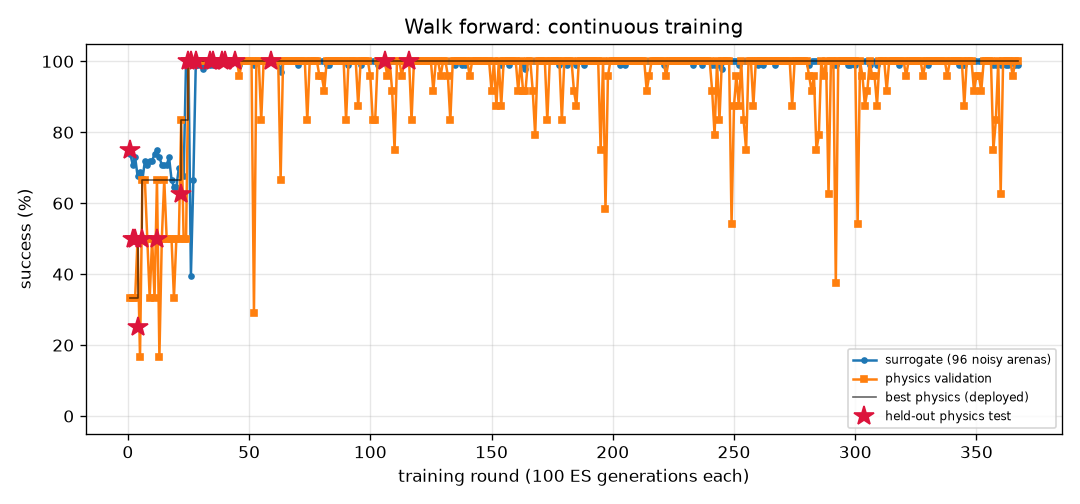
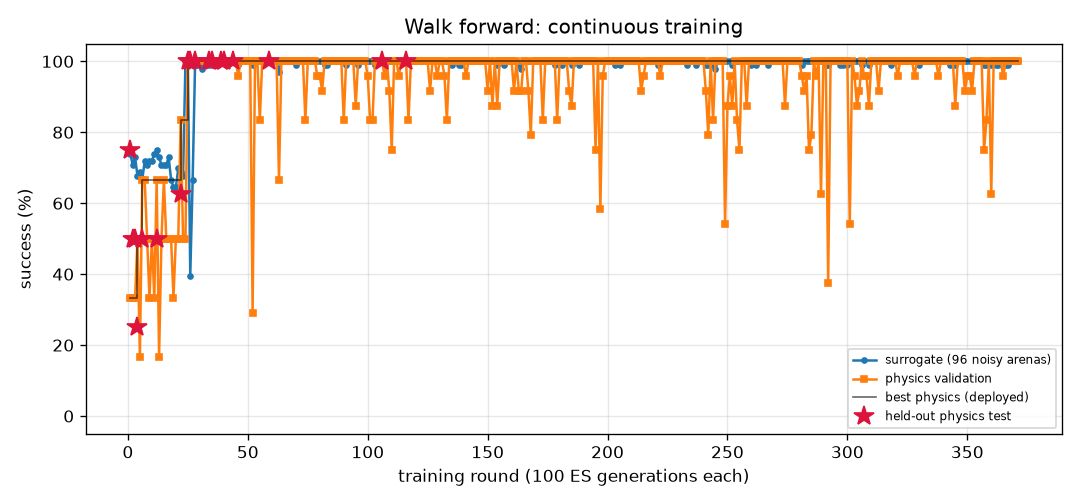
FlyLab: continuous training progress
- walk_forward: optimal, physics val 100% of 24, round 371
- turn: optimal, physics val 100% of 24, round 1013
- goto: optimal, physics val 100% of 24, round 287
- odor_seek: optimal, physics val 100% of 24, round 235
- odor_avoid: optimal, physics val 100% of 24, round 900
- light_seek: optimal, physics val 100% of 24, round 489
- light_avoid: optimal, physics val 100% of 24, round 628

diff --git a/projects/09_flylab/training/walk_forward/REPORT.md b/projects/09_flylab/training/walk_forward/REPORT.md
@@ -1,14 +1,14 @@
 # Walk forward (`walk_forward`) — training report
 
-*Auto-generated by `train_brains.py`, last updated 2026-11-11T21:56:49.*
+*Auto-generated by `train_brains.py`, last updated 2026-11-12T21:10:27.*
 
 ![curve](curve.png)
 
 | | |
 |---|---|
-| rounds | 367 |
-| ES generations | 36700 |
-| physics runs | 8822 |
+| rounds | 371 |
+| ES generations | 37100 |
+| physics runs | 8918 |
 | status | **optimal** |
 | best brain | round 116: physics validation **100%** on 24 arenas, surrogate 100% |
 | held-out physics test | **100%** on 32 unseen arenas (95% CI 89%-100%) (errors: [0.13, 0.16, 0.19, 0.16, 0.15, 0.2, 0.17, 0.18, 0.17, 0.19, 0.2, 0.14, 0.17, 0.19, 0.2, 0.2, 0.13, 0.19, 0.16, 0.2, 0.2, 0.16, 0.17, 0.2, 0.13, 0.15, 0.18, 0.14, 0.16, 0.15, 0.19, 0.12]) |
@@ -17,10 +17,6 @@ Physics error per arena: mm from target at the end (< 1.5 and standing still = s
 
 | round | level | gens | sigma | surrogate | physics val | val errors | test | note |
 |---:|---:|---:|---:|---:|---:|---|---:|---|
-| 328 | 3 | 32800 | 0.024 | 100% | 96% | [0.1, 0.2, 0.04, 0.16, 0.18, 0.12, 0.18, 0.07, 0.17, 0.13, 0.29, 0.13, 0.14, 0.11, 0.11, 0.09, 0.15, 0.13, 0.15, 0.11, 0.13, 0.16, 0.15, 0.14] |  | restart from best |
-| 329 | 3 | 32900 | 0.024 | 100% | 100% | [0.34, 0.42, 0.3, 0.33, 0.42, 0.31, 0.42, 0.3, 0.42, 0.43, 0.31, 0.42, 0.31, 0.3, 0.37, 0.43, 0.33, 0.41, 0.3, 0.38, 0.31, 0.43, 0.42, 0.3] |  |  |
-| 330 | 3 | 33000 | 0.024 | 99% | 100% | [0.27, 0.29, 0.2, 0.27, 0.29, 0.19, 0.28, 0.24, 0.29, 0.28, 0.18, 0.27, 0.23, 0.2, 0.29, 0.28, 0.26, 0.29, 0.23, 0.29, 0.24, 0.29, 0.27, 0.23] |  |  |
-| 331 | 3 | 33100 | 0.025 | 100% | 100% | [0.21, 0.25, 0.15, 0.21, 0.25, 0.15, 0.25, 0.17, 0.24, 0.25, 0.14, 0.24, 0.17, 0.15, 0.22, 0.24, 0.2, 0.24, 0.17, 0.23, 0.18, 0.25, 0.24, 0.16] |  |  |
 | 332 | 3 | 33200 | 0.024 | 100% | 100% | [0.18, 0.23, 0.15, 0.19, 0.24, 0.15, 0.25, 0.16, 0.23, 0.25, 0.15, 0.25, 0.16, 0.15, 0.2, 0.25, 0.18, 0.23, 0.16, 0.21, 0.16, 0.25, 0.24, 0.15] |  | restart from best |
 | 333 | 3 | 33300 | 0.024 | 100% | 100% | [0.23, 0.3, 0.2, 0.23, 0.3, 0.21, 0.3, 0.21, 0.3, 0.31, 0.21, 0.31, 0.2, 0.21, 0.26, 0.31, 0.22, 0.28, 0.21, 0.26, 0.21, 0.31, 0.31, 0.2] |  |  |
 | 334 | 3 | 33400 | 0.024 | 100% | 100% | [0.4, 0.51, 0.38, 0.4, 0.51, 0.4, 0.52, 0.36, 0.52, 0.52, 0.41, 0.49, 0.37, 0.39, 0.43, 0.5, 0.38, 0.5, 0.37, 0.46, 0.36, 0.51, 0.48, 0.37] |  |  |
@@ -57,3 +53,7 @@ Physics error per arena: mm from target at the end (< 1.5 and standing still = s
 | 365 | 3 | 36500 | 0.024 | 100% | 96% | [0.2, 0.25, 0.07, 0.21, 0.25, 0.06, 0.24, 0.18, 0.24, 0.24, 0.67, 0.22, 0.07, 0.06, 0.23, 0.24, 0.19, 0.24, 0.05, 0.23, 0.05, 0.24, 0.22, 0.41] |  |  |
 | 366 | 3 | 36600 | 0.024 | 99% | 100% | [0.16, 0.22, 0.05, 0.17, 0.21, 0.04, 0.22, 0.04, 0.22, 0.22, 0.06, 0.2, 0.12, 0.05, 0.18, 0.22, 0.15, 0.21, 0.13, 0.19, 0.14, 0.22, 0.2, 0.02] |  |  |
 | 367 | 3 | 36700 | 0.025 | 99% | 100% | [0.27, 0.3, 0.17, 0.26, 0.3, 0.17, 0.29, 0.2, 0.3, 0.26, 0.13, 0.08, 0.19, 0.17, 0.28, 0.25, 0.24, 0.29, 0.2, 0.28, 0.21, 0.25, 0.07, 0.19] |  |  |
+| 368 | 3 | 36800 | 0.025 | 100% | 100% | [0.12, 0.19, 0.15, 0.17, 0.18, 0.15, 0.14, 0.16, 0.1, 0.13, 0.15, 0.13, 0.11, 0.14, 0.19, 0.21, 0.16, 0.19, 0.16, 0.1, 0.16, 0.13, 0.19, 0.08] |  | restart from best |
+| 369 | 3 | 36900 | 0.024 | 100% | 100% | [0.38, 0.41, 0.32, 0.38, 0.41, 0.3, 0.41, 0.34, 0.41, 0.39, 0.28, 0.38, 0.34, 0.31, 0.4, 0.39, 0.37, 0.41, 0.34, 0.4, 0.35, 0.4, 0.38, 0.34] |  |  |
+| 370 | 3 | 37000 | 0.024 | 100% | 100% | [0.15, 0.17, 0.12, 0.15, 0.16, 0.1, 0.17, 0.13, 0.17, 0.17, 0.1, 0.16, 0.13, 0.11, 0.15, 0.16, 0.15, 0.17, 0.13, 0.15, 0.13, 0.17, 0.16, 0.12] |  |  |
+| 371 | 3 | 37100 | 0.024 | 100% | 100% | [0.2, 0.17, 0.07, 0.2, 0.17, 0.08, 0.22, 0.1, 0.2, 0.28, 0.05, 0.27, 0.07, 0.08, 0.2, 0.17, 0.17, 0.15, 0.11, 0.21, 0.11, 0.3, 0.21, 0.14] |  |  |

diff --git a/projects/09_flylab/training/light_seek/REPORT.md b/projects/09_flylab/training/light_seek/REPORT.md
@@ -1,14 +1,14 @@
 # Walk toward light (`light_seek`) — training report
 
-*Auto-generated by `train_brains.py`, last updated 2026-11-11T21:38:40.*
+*Auto-generated by `train_brains.py`, last updated 2026-11-12T20:57:49.*
 
 ![curve](curve.png)
 
 | | |
 |---|---|
-| rounds | 487 |
-| ES generations | 48700 |
-| physics runs | 8568 |
+| rounds | 489 |
+| ES generations | 48900 |
+| physics runs | 8616 |
 | status | **optimal** |
 | best brain | round 375: physics validation **100%** on 24 arenas, surrogate 100% |
 | held-out physics test | **100%** on 32 unseen arenas (95% CI 89%-100%) (errors: [0.57, 0.54, 0.53, 0.57, 0.55, 0.56, 0.59, 0.56, 0.53, 0.56, 0.71, 0.56, 0.55, 0.54, 0.53, 0.54, 0.54, 0.55, 0.52, 0.65, 0.64, 0.7, 0.58, 0.57, 0.6, 0.62, 0.55, 0.88, 0.54, 0.52, 0.62, 0.57]) |
@@ -17,8 +17,6 @@ Physics error per arena: mm from target at the end (< 1.5 and standing still = s
 
 | round | level | gens | sigma | surrogate | physics val | val errors | test | note |
 |---:|---:|---:|---:|---:|---:|---|---:|---|
-| 448 | 3 | 44800 | 0.024 | 100% | 96% | [1.02, 0.48, 0.55, 0.66, 0.5, 1.09, 1.06, 0.63, 0.52, 0.49, 1.53, 0.53, 0.5, 0.55, 0.5, 0.51, 0.49, 0.57, 0.67, 0.57, 0.55, 0.54, 0.6, 0.49] |  |  |
-| 449 | 3 | 44900 | 0.024 | 100% | 100% | [0.74, 0.65, 0.53, 0.71, 1.01, 0.55, 0.65, 0.64, 0.58, 0.71, 0.55, 0.6, 1.1, 0.62, 0.79, 0.61, 0.59, 0.77, 0.53, 1.37, 0.79, 0.68, 0.59, 0.61] |  |  |
 | 450 | 3 | 45000 | 0.024 | 100% | 96% | [0.78, 0.6, 0.75, 0.74, 0.62, 0.61, 0.54, 0.67, 0.55, 0.6, 0.54, 0.81, 0.58, 2.45, 0.7, 0.64, 0.55, 0.61, 0.55, 0.68, 0.64, 0.67, 0.68, 0.69] |  |  |
 | 451 | 3 | 45100 | 0.024 | 100% | 100% | [0.62, 0.56, 0.63, 1.5, 0.62, 0.61, 0.51, 0.55, 0.59, 0.52, 0.56, 0.59, 0.54, 0.59, 1.03, 0.5, 0.49, 0.65, 0.6, 0.65, 1.0, 0.52, 0.58, 0.51] |  | restart from best |
 | 452 | 3 | 45200 | 0.024 | 100% | 100% | [0.61, 0.54, 0.54, 1.47, 0.55, 0.59, 0.61, 0.58, 0.54, 0.58, 0.65, 0.58, 0.54, 0.54, 0.59, 0.56, 0.59, 0.57, 0.55, 0.61, 0.69, 0.85, 0.53, 0.53] |  |  |
@@ -57,3 +55,5 @@ Physics error per arena: mm from target at the end (< 1.5 and standing still = s
 | 485 | 3 | 48500 | 0.024 | 100% | 100% | [1.0, 0.68, 0.74, 0.62, 0.53, 0.56, 0.58, 0.61, 0.71, 0.52, 0.63, 0.61, 0.59, 0.73, 0.58, 0.61, 0.59, 0.58, 0.57, 0.52, 0.55, 0.79, 0.52, 0.58] |  |  |
 | 486 | 3 | 48600 | 0.024 | 100% | 100% | [1.04, 0.7, 0.78, 0.65, 0.62, 0.69, 0.66, 0.66, 1.03, 0.62, 0.69, 0.62, 0.66, 0.68, 0.65, 0.62, 0.65, 0.72, 0.64, 0.62, 0.69, 0.61, 0.84, 0.65] |  |  |
 | 487 | 3 | 48700 | 0.024 | 100% | 100% | [0.62, 0.51, 0.63, 0.55, 0.67, 0.59, 0.56, 0.52, 0.65, 0.64, 0.63, 0.6, 0.51, 0.77, 0.6, 0.55, 0.54, 0.51, 0.6, 1.02, 0.59, 0.65, 0.49, 0.66] |  | restart from best |
+| 488 | 3 | 48800 | 0.024 | 100% | 100% | [1.03, 0.59, 0.65, 0.53, 0.58, 0.7, 0.63, 0.53, 0.69, 0.57, 0.57, 0.65, 0.63, 0.72, 0.54, 0.68, 0.57, 0.69, 0.52, 0.59, 0.63, 1.31, 0.71, 0.91] |  |  |
+| 489 | 3 | 48900 | 0.024 | 100% | 100% | [0.63, 0.58, 0.62, 0.61, 0.59, 0.6, 0.57, 0.64, 0.68, 0.63, 0.66, 0.61, 0.67, 1.29, 0.64, 0.64, 0.59, 0.64, 0.6, 0.65, 0.68, 0.58, 0.66, 0.78] |  |  |

diff --git a/projects/09_flylab/training/TRAINING.md b/projects/09_flylab/training/TRAINING.md
@@ -1,15 +1,15 @@
 # FlyLab brains — continuous training log
 
-*Auto-generated by `train_brains.py`, last updated 2026-11-12T20:25:10.*
+*Auto-generated by `train_brains.py`, last updated 2026-11-12T21:10:27.*
 
 Every skill has its own brain and its own training process: surrogate ES rounds, physics validation in MuJoCo, keep-the-best selection, and a held-out physics test that is never used for selection. See each skill's report for its full round-by-round history. Mastery is progressive: passing a level (100% physics validation, >=95% surrogate) doubles the validation and test arena sets; a brain is **optimal** once it holds up at level 3 (>=95% of 24 validation arenas) AND scores >=90% on the 32 held-out test arenas. Test columns show 95% Wilson confidence intervals.
 
 | skill | rounds | ES generations | physics runs | surrogate | physics val | **physics test** | status |
 |---|---:|---:|---:|---:|---:|---:|---|
-| [Walk forward](walk_forward/REPORT.md) | 367 | 36700 | 8822 | 100% | 100% of 24 | 100% of 32 (CI 89-100%) | **optimal** |
+| [Walk forward](walk_forward/REPORT.md) | 371 | 37100 | 8918 | 100% | 100% of 24 | 100% of 32 (CI 89-100%) | **optimal** |
 | [Turn in place](turn/REPORT.md) | 1013 | 101300 | 24558 | 100% | 100% of 24 | 97% of 32 (CI 84-99%) | **optimal** |
 | [Go to a location](goto/REPORT.md) | 287 | 28700 | 6838 | 100% | 100% of 24 | 100% of 32 (CI 89-100%) | **optimal** |
 | [Find food by smell](odor_seek/REPORT.md) | 235 | 23500 | 5070 | 100% | 100% of 24 | 100% of 32 (CI 89-100%) | **optimal** |
 | [Escape a bad smell](odor_avoid/REPORT.md) | 900 | 90000 | 18906 | 97% | 100% of 24 | 97% of 32 (CI 84-99%) | **optimal** |
-| [Walk toward light](light_seek/REPORT.md) | 487 | 48700 | 8568 | 100% | 100% of 24 | 100% of 32 (CI 89-100%) | **optimal** |
+| [Walk toward light](light_seek/REPORT.md) | 489 | 48900 | 8616 | 100% | 100% of 24 | 100% of 32 (CI 89-100%) | **optimal** |
 | [Hide from light](light_avoid/REPORT.md) | 628 | 62800 | 15344 | 100% | 100% of 24 | 100% of 32 (CI 89-100%) | **optimal** |
